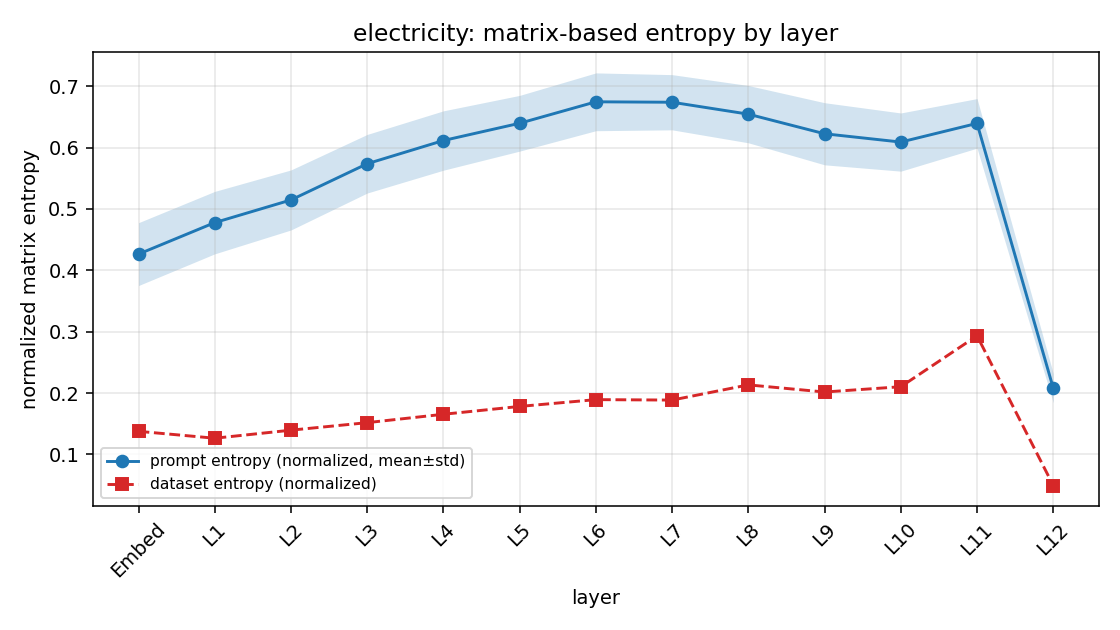
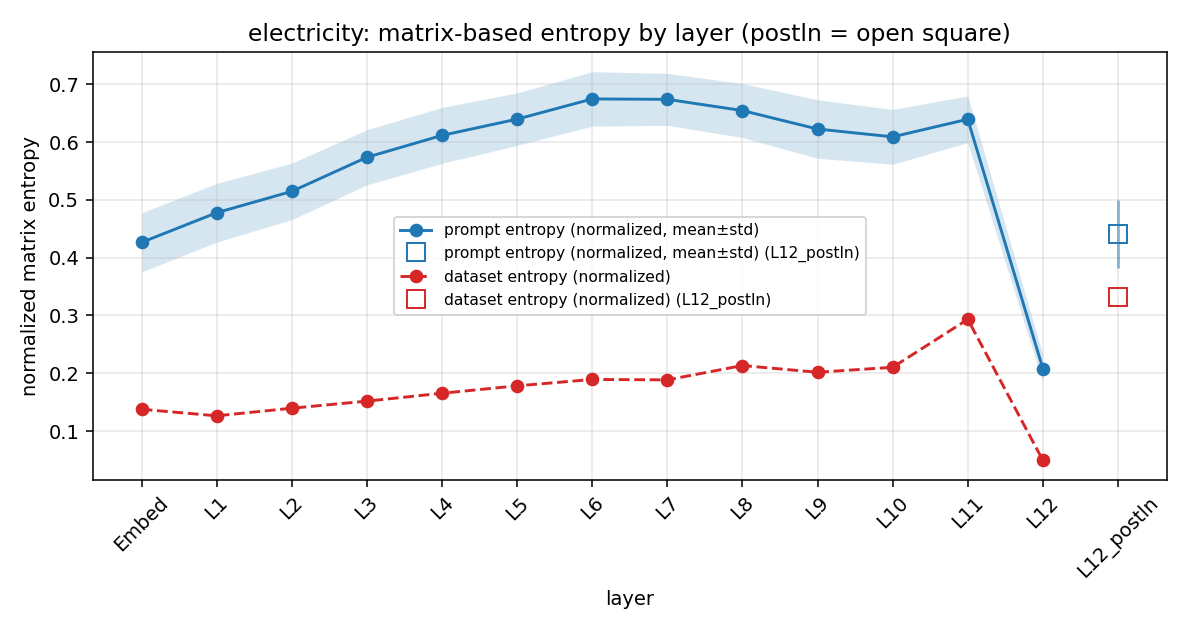
repr-metrics: post-layernorm L12 control — collapse is mostly pre-norm scale artifact (effrank 23->69 elec, 16->53 m4); modest genuine terminal dip remains

diff --git a/probing/repr_metrics_postln.py b/probing/repr_metrics_postln.py
@@ -1,0 +1,291 @@
+"""L12_postln follow-up: metrics for the encoder output AFTER the final layer norm.
+
+Decides whether the observed L12 rank collapse (electricity dataset effrank 86->23,
+m4 66->16) is representational or a PRE-final-norm scale artifact. The existing 13-entry
+axis (Embed + L1..L12, block outputs pre final norm) is unchanged; this adds ONE more
+representation, ``L12_postln`` = ``encoder.final_layer_norm`` output (the tensor the
+decoder/head actually consumes; dropout after it is identity in eval), content patches
+only, pretrained electricity + m4 only.
+
+Additive by construction (probing/repr_metrics.py is NOT modified):
+  - windows/series are re-derived with the same seed-0 sampler and ASSERTED to match the
+    ids stored in the existing pretrained cache; everything except the new tensor is
+    reused from that cache.
+  - the new states are cached to  pretrained_cache/<tag>__seed0__C512__postln.npz
+    (a sibling file — existing caches are not touched or invalidated).
+  - metrics.json gains a clearly-labeled 14th per_layer entry + "L12_postln" on
+    layer_axis (idempotent: re-running replaces the entry, never duplicates it).
+  - figures are re-rendered FROM THE JSON ONLY, with L12_postln as a distinct open
+    square; the randinit curve keeps its 13 points (no postln pass for randinit).
+
+Run:  python -m probing.repr_metrics_postln
+"""
+
+from __future__ import annotations
+
+import json
+import math
+from pathlib import Path
+
+import numpy as np
+
+import matplotlib
+matplotlib.use("Agg")
+import matplotlib.pyplot as plt
+
+from probing.config import OUT_DIR
+from probing.repr_metrics import (
+    C,
+    DATASETS,
+    PRETRAINED_CACHE,
+    RM_DIR,
+    SEED,
+    _cache_path,
+    _obj_array,
+    _sample_windows,
+    effective_rank,
+    matrix_entropy,
+    normalized_matrix_entropy,
+)
+
+POSTLN = "L12_postln"
+
+
+# --------------------------------------------------------------------------- #
+# extraction: ONE new forward computation, hooked on encoder.final_layer_norm
+# --------------------------------------------------------------------------- #
+
+def extract_postln(tag: str, seed: int = SEED, batch_size: int = 64):
+    """Content-patch states of the post-final-layer-norm encoder output (pretrained).
+
+    Returns (states list[(N_patches, 768)], ids, hook_info). Cached as a sibling of the
+    existing pretrained cache; the existing npz is read (ids + L12) but never rewritten.
+    """
+    base_cp = _cache_path("pretrained", tag, seed)
+    assert base_cp.exists(), f"missing base cache {base_cp} — run probing.repr_metrics first"
+    base = np.load(base_cp, allow_pickle=True)
+    base_ids = list(base["series_ids"])
+
+    cp = base_cp.with_name(base_cp.stem + "__postln.npz")
+    if cp.exists():
+        d = np.load(cp, allow_pickle=True)
+        info = json.loads(str(d["meta"]))
+        print(f"  [cache HIT]  {cp.relative_to(OUT_DIR)}  (hook: {info['hook_module']}, "
+              f"shape per batch: {info['hook_shape']})")
+        return list(d["hs"]), list(d["series_ids"]), info
+
+    import torch
+    from probing.extraction import get_pipeline
+
+    windows, ids, prov = _sample_windows(tag, seed)
+    assert ids == base_ids, f"window sampler no longer matches cached ids for {tag}"
+    n = len(ids)
+
+    pipe, _ = get_pipeline()
+    patch_size = pipe.model.chronos_config.input_patch_size
+    n_content = math.ceil(C / patch_size)
+
+    # the hooked module, by qualified name (printed as a validation gate)
+    hook_module_name = next(name for name, m in pipe.model.named_modules()
+                            if m is pipe.model.encoder.final_layer_norm)
+    hook_shape_seen = {}
+
+    mats: list[np.ndarray] = []
+    for b0 in range(0, n, batch_size):
+        batch = windows[b0:b0 + batch_size]
+        inputs = [torch.from_numpy(np.ascontiguousarray(batch[j])) for j in range(len(batch))]
+        hits: list[torch.Tensor] = []
+
+        def hook(_m, _inp, out):
+            hits.append(out.detach().to("cpu"))
+
+        h = pipe.model.encoder.final_layer_norm.register_forward_hook(hook)
+        try:
+            with torch.no_grad():
+                _ = pipe.embed(inputs, batch_size=len(inputs))
+        finally:
+            h.remove()
+
+        full = torch.cat(hits, dim=0)                       # (b, P, 768) post-LN
+        assert full.shape[0] == len(batch) and full.shape[1] == n_content + 2
+        hook_shape_seen = tuple(full.shape)
+        content = full[:, :n_content, :]                    # content patches only
+        for j in range(len(batch)):
+            mats.append(content[j].numpy().astype(np.float32))
+
+    info = dict(prov)
+    info.update({"layer": POSTLN, "hook_module": hook_module_name,
+                 "hook_shape": str(hook_shape_seen), "n_content_patches": int(n_content)})
+    np.savez_compressed(cp, hs=_obj_array(mats), series_ids=np.array(ids),
+                        meta=np.array(json.dumps(info)))
+    print(f"  [saved]      {cp.relative_to(OUT_DIR)}  ({cp.stat().st_size/1e6:.0f} MB)")
+    print(f"  [hook] module = pipe.model.{hook_module_name}  "
+          f"({type(pipe.model.encoder.final_layer_norm).__name__}); "
+          f"output shape per final batch = {hook_shape_seen}")
+    return mats, ids, info
+
+
+# --------------------------------------------------------------------------- #
+# metrics.json append (idempotent) + numeric table
+# --------------------------------------------------------------------------- #
+
+def append_postln_metrics(short: str, mats: list[np.ndarray], info: dict) -> dict:
+    p = RM_DIR / short / "metrics.json"
+    m = json.loads(p.read_text())
+    s1 = np.array([matrix_entropy(Z) for Z in mats])
+    s1n = np.array([normalized_matrix_entropy(Z) for Z in mats])
+    er = np.array([effective_rank(Z) for Z in mats])
+    Zd = np.stack([Z.mean(axis=0) for Z in mats])
+    entry = {
+        "layer": POSTLN,
+        "prompt_entropy_mean": float(s1.mean()), "prompt_entropy_std": float(s1.std()),
+        "prompt_entropy_norm_mean": float(s1n.mean()), "prompt_entropy_norm_std": float(s1n.std()),
+        "prompt_effrank_mean": float(er.mean()), "prompt_effrank_std": float(er.std()),
+        "dataset_entropy": matrix_entropy(Zd),
+        "dataset_entropy_norm": normalized_matrix_entropy(Zd),
+        "dataset_effrank": effective_rank(Zd),
+        "dataset_exp_S1": float(np.exp(matrix_entropy(Zd))),
+        "prompt_exp_S1_mean": float(np.exp(s1).mean()),
+        "note": "post final-layer-norm encoder output (the tensor the head consumes); "
+                "L12 above is the same block output PRE final norm",
+        "hook_module": info["hook_module"],
+    }
+    if POSTLN in m["layer_axis"]:                       # idempotent re-run: replace
+        m["per_layer"][m["layer_axis"].index(POSTLN)] = entry
+    else:
+        m["layer_axis"].append(POSTLN)
+        m["per_layer"].append(entry)
+    p.write_text(json.dumps(m, indent=1))
+    print(f"  [saved] {short}/metrics.json  (+{POSTLN} as point {len(m['layer_axis'])})")
+    return m
+
+
+def write_table(short: str) -> None:
+    m = json.loads((RM_DIR / short / "metrics.json").read_text())
+    lines = [f"{'layer':>12} | {'prompt_entropy_norm (mean±std)':>30} | {'dataset_effrank':>15}",
+             "-" * 65]
+    for r in m["per_layer"]:
+        lines.append(f"{r['layer']:>12} | {r['prompt_entropy_norm_mean']:14.4f} ± "
+                     f"{r['prompt_entropy_norm_std']:6.4f}      | {r['dataset_effrank']:15.3f}")
+    txt = "\n".join(lines)
+    out = RM_DIR / short / "table_by_layer.txt"
+    out.write_text(txt + "\n")
+    print(f"\n===== {short}: per-layer table (saved to {out.relative_to(OUT_DIR)}) =====")
+    print(txt)
+
+
+# --------------------------------------------------------------------------- #
+# figures (JSON-only; L12_postln = distinct open square)
+# --------------------------------------------------------------------------- #
+
+def _series(m: dict, key: str) -> np.ndarray:
+    return np.array([r[key] for r in m["per_layer"]])
+
+
+def _plot_curve_with_postln(ax, xs, mu, sd, axis, color, label, ls="-"):
+    """Solid curve over the 13 base layers; L12_postln (if present) as an open square."""
+    has_pln = axis and axis[-1] == POSTLN
+    k = len(axis) - 1 if has_pln else len(axis)
+    if sd is not None:
+        ax.fill_between(xs[:k], (mu - sd)[:k], (mu + sd)[:k], alpha=0.18, color=color, lw=0)
+    ax.plot(xs[:k], mu[:k], "o", ls=ls, color=color, label=label)
+    if has_pln:
+        if sd is not None:
+            ax.errorbar([xs[k]], [mu[k]], yerr=[sd[k]], fmt="none", ecolor=color, alpha=0.5)
+        ax.plot([xs[k]], [mu[k]], marker="s", mfc="none", mec=color, ms=9, ls="none",
+                label=f"{label} ({POSTLN})" if label else None)
+
+
+def plot_dataset_figs(short: str) -> None:
+    m = json.loads((RM_DIR / short / "metrics.json").read_text())
+    axis = m["layer_axis"]
+    xs = np.arange(len(axis))
+
+    fig, ax = plt.subplots(figsize=(8.5, 4.5))
+    _plot_curve_with_postln(ax, xs, _series(m, "prompt_entropy_norm_mean"),
+                            _series(m, "prompt_entropy_norm_std"), axis, "C0",
+                            "prompt entropy (normalized, mean±std)")
+    _plot_curve_with_postln(ax, xs, _series(m, "dataset_entropy_norm"), None, axis, "C3",
+                            "dataset entropy (normalized)", ls="--")
+    ax.set_xticks(xs); ax.set_xticklabels(axis, rotation=45)
+    ax.set_xlabel("layer"); ax.set_ylabel("normalized matrix entropy")
+    ax.set_title(f"{short}: matrix-based entropy by layer (postln = open square)")
+    ax.grid(alpha=0.3); ax.legend(fontsize=8)
+    fig.tight_layout(); fig.savefig(RM_DIR / short / "fig_entropy_by_layer.png", dpi=140)
+    plt.close(fig)
+
+    fig, ax = plt.subplots(figsize=(8.5, 4.5))
+    _plot_curve_with_postln(ax, xs, _series(m, "prompt_effrank_mean"),
+                            _series(m, "prompt_effrank_std"), axis, "C0",
+                            "prompt-level effective rank (mean±std)")
+    _plot_curve_with_postln(ax, xs, _series(m, "dataset_effrank"), None, axis, "C3",
+                            "dataset-level effective rank", ls="--")
+    ax.set_xticks(xs); ax.set_xticklabels(axis, rotation=45)
+    ax.set_xlabel("layer"); ax.set_ylabel("effective rank")
+    ax.set_title(f"{short}: effective rank by layer (postln = open square)")
+    ax.grid(alpha=0.3); ax.legend(fontsize=8)
+    fig.tight_layout(); fig.savefig(RM_DIR / short / "fig_effrank_by_layer.png", dpi=140)
+    plt.close(fig)
+    print(f"  [saved] {short}/fig_entropy_by_layer.png + fig_effrank_by_layer.png (14-pt axis)")
+
+
+def plot_comparison() -> None:
+    a = json.loads((RM_DIR / "electricity" / "metrics.json").read_text())
+    b = json.loads((RM_DIR / "electricity_randinit" / "metrics.json").read_text())
+    axis = a["layer_axis"]                              # 14 entries (randinit keeps 13)
+    xs = np.arange(len(axis))
+    fig, (ax1, ax2) = plt.subplots(1, 2, figsize=(13.5, 4.6))
+    for ax, key_mu, key_sd, title, yl in (
+        (ax1, "prompt_entropy_norm_mean", "prompt_entropy_norm_std",
+         "normalized prompt entropy", "S1 / log(min(N,D))"),
+        (ax2, "prompt_effrank_mean", "prompt_effrank_std",
+         "prompt-level effective rank", "effective rank"),
+    ):
+        _plot_curve_with_postln(ax, xs, _series(a, key_mu), _series(a, key_sd),
+                                axis, "C0", "pretrained")
+        mu_b, sd_b = _series(b, key_mu), _series(b, key_sd)
+        ax.fill_between(xs[:len(mu_b)], mu_b - sd_b, mu_b + sd_b, alpha=0.18, color="C1", lw=0)
+        ax.plot(xs[:len(mu_b)], mu_b, "o-", color="C1", label="randinit")
+        ax.set_xticks(xs); ax.set_xticklabels(axis, rotation=45)
+        ax.set_xlabel("layer"); ax.set_ylabel(yl); ax.set_title(title)
+        ax.grid(alpha=0.3); ax.legend(fontsize=9)
+    fig.suptitle("electricity: pretrained vs randomly-initialized Chronos-2 "
+                 "(L12_postln = open square; pretrained only)", y=1.02)
+    fig.tight_layout()
+    out = RM_DIR / "fig_pretrained_vs_randinit_electricity.png"
+    fig.savefig(out, dpi=140, bbox_inches="tight")
+    plt.close(fig)
+    print(f"  [saved] {out.relative_to(OUT_DIR)}")
+
+
+# --------------------------------------------------------------------------- #
+# main + gates
+# --------------------------------------------------------------------------- #
+
+def main() -> None:
+    for short, tag in DATASETS.items():                 # electricity, m4 (pretrained only)
+        print(f"\n=== {short} ({tag}): {POSTLN} ===")
+        mats, ids, info = extract_postln(tag)
+        print(f"  [gate] hooked module: pipe.model.{info['hook_module']}  "
+              f"| captured shape (last batch): {info['hook_shape']}")
+
+        # gate: postln must differ from the cached PRE-norm L12 states
+        base = np.load(_cache_path("pretrained", tag, SEED), allow_pickle=True)
+        l12 = list(base["hs_L12"])
+        diffs = [float(np.abs(mats[k] - l12[k]).mean()) for k in range(len(mats))]
+        mad = float(np.mean(diffs))
+        print(f"  [gate] mean |{POSTLN} - L12_prenorm| over {len(mats)} series: {mad:.4f}  "
+              f"(> 0: {mad > 0})")
+        assert mad > 0.0
+
+        append_postln_metrics(short, mats, info)
+        write_table(short)
+
+    print()
+    for short in DATASETS:
+        plot_dataset_figs(short)
+    plot_comparison()
+
+
+if __name__ == "__main__":
+    main()
